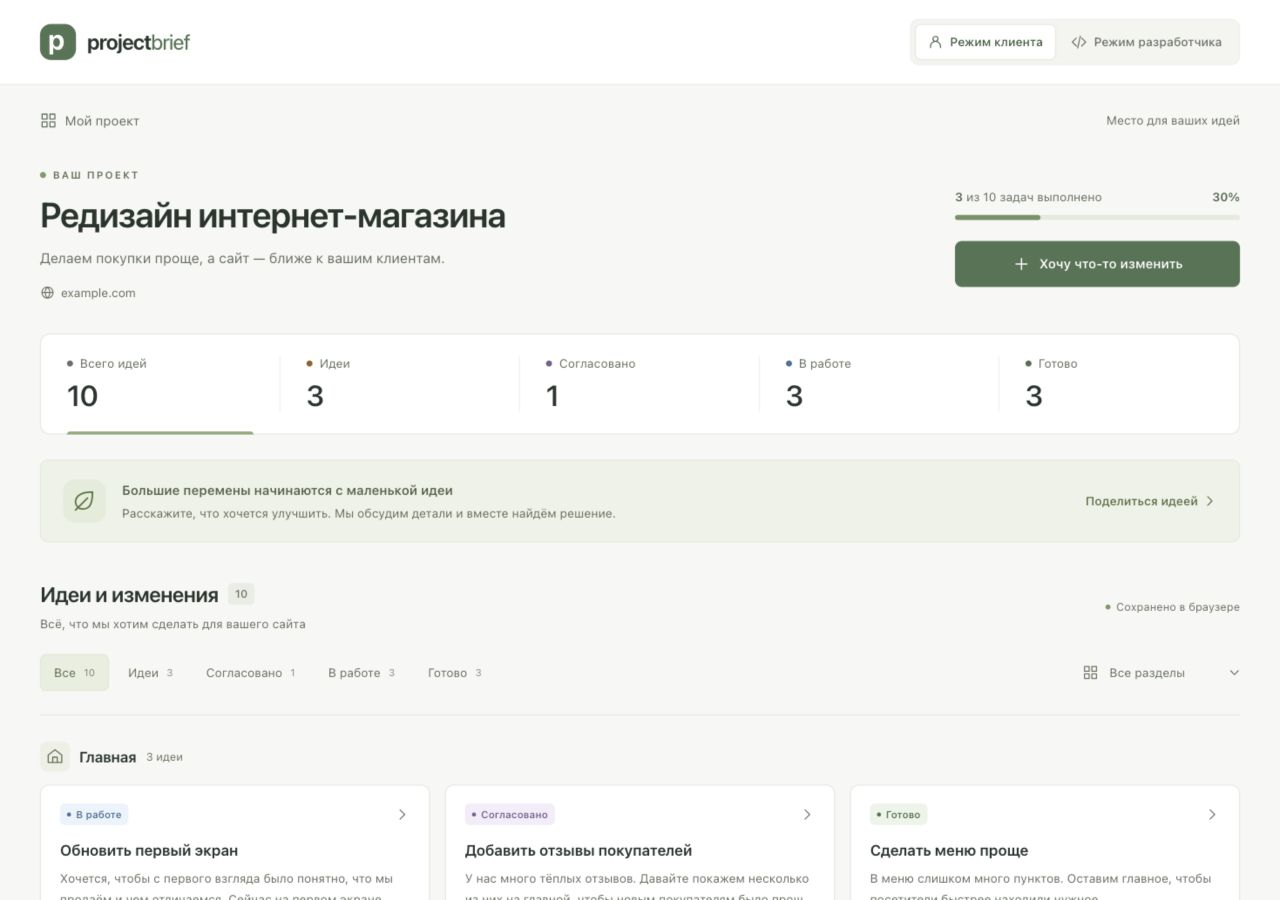
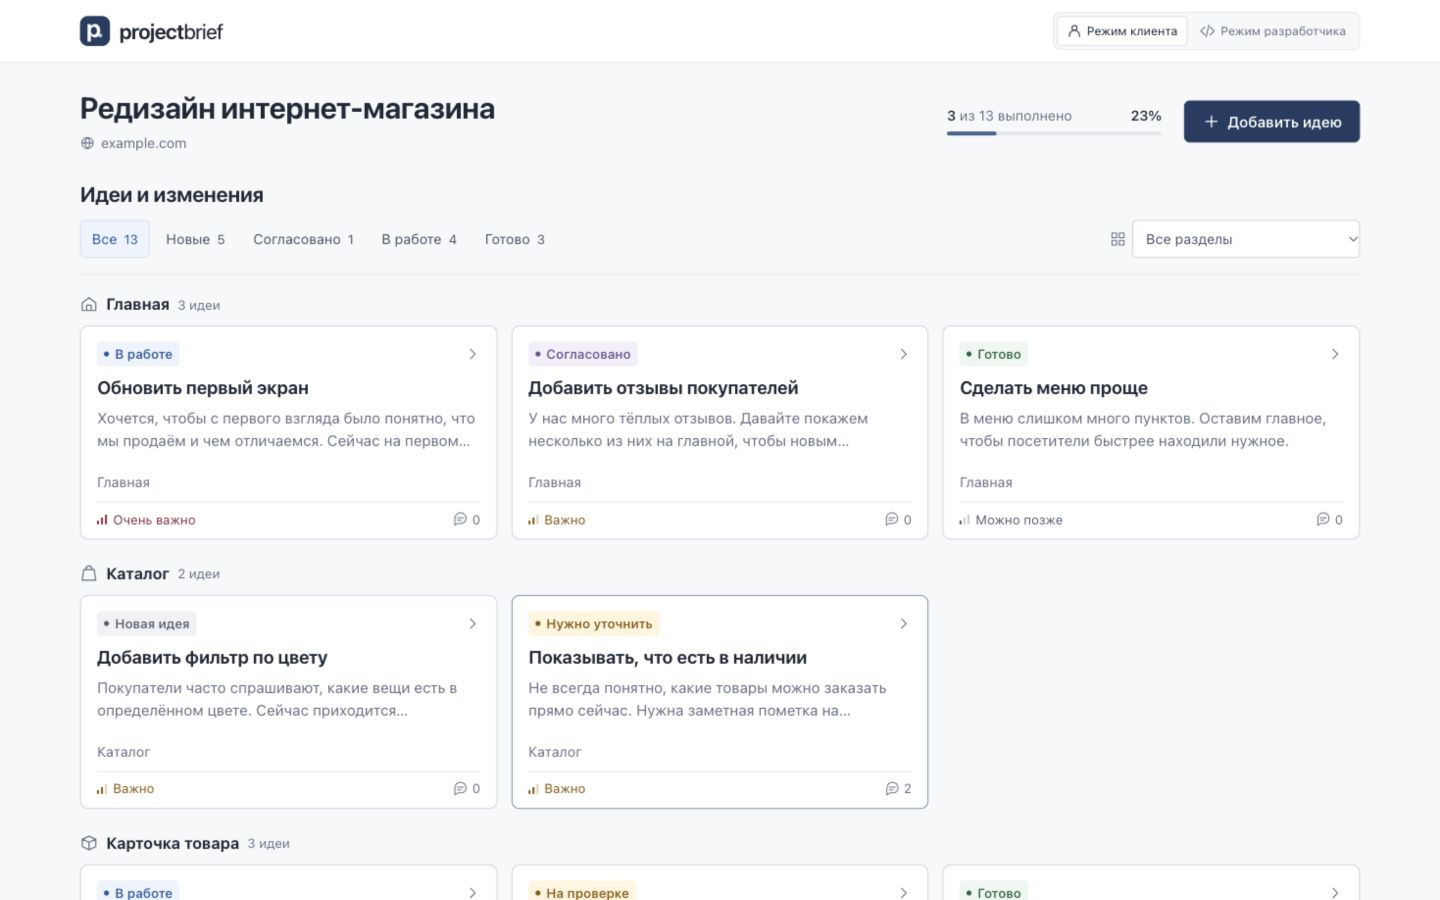
docs: record UX verification and screenshots

diff --git a/docs/ux-cleanup.md b/docs/ux-cleanup.md
@@ -1,0 +1,76 @@
+# Проверка UX/UI cleanup
+
+5 октября 2026 года. Работа продолжена поверх существующей main, без новых зависимостей.
+
+## Интерфейс
+
+Удалены большая статистика, зелёный promo-блок, слоган, повторные пояснения,
+боковая инструкция формы и большая карточка согласования. Логотип, режимы,
+фильтры, progress bar и все действия MVP сохранены.
+
+Нейтральная палитра, body 16 px, labels 15 px, заголовки карточек 18 px,
+описания 15 px (16 px на mobile), максимум две строки. Цвета различают статусы
+и приоритеты. Необязательные поля выделены отдельно, AI остаётся вторичным действием.
+
+## Размеры и визуальная проверка
+
+| Ширина  | Колонки | Горизонтальная прокрутка |
+| ------- | ------- | ------------------------ |
+| 1440 px | 3       | Нет                      |
+| 1199 px | 2       | Нет                      |
+| 700 px  | 2       | Нет                      |
+| 699 px  | 1       | Нет                      |
+| 390 px  | 1       | Нет                      |
+
+На 1440×900 первый ряд из трёх карточек расположен между y=326 и y=540:
+все три карточки целиком видны без прокрутки. Проверены ProjectView,
+TaskFormView и TaskView, оба режима. На mobile 390×844 проверены форма,
+карточка с длинным URL, комментарии и developer panel.
+
+Снимки: [главная desktop](dashboard.jpg), [форма desktop](form-desktop.jpg),
+[идея клиента](task-client.jpg), [идея разработчика](task-developer.jpg),
+[главная mobile с URL](mobile-dashboard.jpg), [форма mobile](mobile-form.jpg),
+[идея mobile](mobile-task.jpg).
+
+Проверены вычисленные цвета обычного текста: описание и место на карточке —
+4,97:1, заголовок — 14,68:1, основная кнопка — 11,19:1,
+активный фильтр — 6,53:1, badges статусов — от 5,52:1,
+переключатель режима — минимум 4,68:1. Эти образцы превышают 4,5:1.
+
+## Поведение и данные
+
+- Прежние десять идей из браузерного localStorage восстановились, включая вложения,
+  комментарии, согласование, оценку, стоимость и заметки. Сброса данных не было.
+- Ключ `project-brief:v1` и версия 1 сохранены. Старые задачи читаются через
+  `location || section`. Новые задачи записывают оба поля для совместимости.
+- Выбор «Карточка товара» клавишами ↓ и Enter не отправляет форму.
+  Tab закрывает подсказки и переводит фокус; существующий раздел также выбирается указателем.
+- Сохранены тестовые идеи с собственным местом «Мобильное меню» и длинным URL
+  с query string и hash. Они корректно группируются и фильтруются.
+  Полный URL совпадает после перезагрузки; CSS ограничивает только отображение.
+- Значение места `all` не конфликтует с пунктом «Все разделы»: фильтр показывает
+  ровно одну соответствующую идею, затем возвращается к общему списку.
+- Пустая форма показывает ошибки трёх обязательных полей и фокусирует первое.
+  Идея сохраняется без ожидаемого результата и вложений.
+- Две вставки одного PNG через Cmd+V добавляют два отдельных превью.
+  Вставка текста в описание продолжает работать. Изображения из буфера проходят
+  прежние проверки формата, размера, количества файлов и сохранение превью.
+- На новой тестовой идее добавлены сообщения клиента и разработчика,
+  согласование, статус «В работе», 2,5 часа, 7500 ₽ и техническая заметка.
+  Все значения восстановились после обновления страницы.
+- В клиентском режиме developer-only поля скрыты. История изначально закрыта,
+  открывается и закрывается с клавиатуры; внутренние события скрыты от клиента.
+- AI-демо открывается на mobile, Escape закрывает окно и возвращает фокус.
+  Заполненная форма сохраняется. API не подключён.
+- Консоль браузера: ошибок и предупреждений нет.
+
+Тестовые идеи оставлены в браузере с префиксом «Проверка UX»; прежние идеи не менялись.
+
+## Автоматическая проверка
+
+`npm test`: 14 тестов, 14 успешных, 0 ошибок. Помимо прежнего жизненного цикла
+проверяются восстановление старой схемы без потери полей, произвольные места,
+полные URL, совместимое обновление section, вставка изображений и ограничения файлов.
+Тесты используют отдельное хранилище в памяти.
+
+`npm run build`: успешно. `npm run format:check`: успешно.

diff --git a/README.md b/README.md
@@ -18,18 +18,20 @@ npm run dev
 ```bash
 npm run build        # сборка в dist/
 npm run preview      # просмотр собранного приложения
-npm test             # тесты store и сохранения данных
+npm test             # тесты store, сохранения и обработки вложений
 npm run format:check # проверка форматирования
 ```
 
 ## Возможности
 
 - Девять демо-идей при первом запуске, все шесть статусов, несколько обсуждений.
-- Главный экран: прогресс, статистика, группировка по страницам сайта, фильтры по статусу и разделу.
-- Простая форма идеи: название, раздел (включая «Другое»), описание, ожидаемый результат, важность и вложения.
+- Главный экран: компактный прогресс, группировка по месту на сайте и фильтры. На desktop от 1200 px — три колонки, от 700 до 1199 px — две, ниже — одна.
+- Простая форма идеи: название, место на сайте и описание. Результат, важность и вложения визуально вторичны.
+- «Где это находится?» — свободное поле с подсказками существующих мест: можно выбрать раздел, написать своё название или вставить полную ссылку. Подсказки доступны мышью и клавишами ↑/↓, Enter, Escape; Tab переходит дальше.
 - JPG, JPEG, PNG, WEBP, PDF, DOC, DOCX, TXT, ZIP; до 10 файлов на идею, до 20 МБ каждый.
 - Для изображений сохраняются уменьшенные превью до 1000 px и 180 КБ. Для остальных файлов сохраняются только название, тип и размер. Оригиналы файлов не сохраняются и не отправляются.
-- Страница идеи: описание, результат, превью, комментарии двух участников, согласование и история.
+- Скриншот можно вставить через Ctrl+V / Cmd+V на странице новой идеи. Он проходит ту же проверку и подготовку превью, что выбранный файл. Вставка обычного текста работает как прежде.
+- Страница идеи: описание, результат, превью и комментарии рядом на desktop. Согласование показывается компактно, история изменений по умолчанию свёрнута.
 - Переключатель режима без авторизации. В режиме разработчика доступны статус, часы, стоимость в рублях и технические заметки.
 - Все изменения и выбранный режим автоматически сохраняются в localStorage. Поля разработчика сохраняются при вводе; последовательный ввод объединяется в одно событие истории.
 - Согласование клиента хранится отдельно от статуса, установленного разработчиком.
@@ -52,7 +54,9 @@ src/
   App.vue                   # оболочка, переключатель режима, ошибки хранилища
   main.js                   # Vue 3, Pinia и Vue Router
 tests/project.test.js       # тесты жизненного цикла проекта
-docs/verification.md        # результаты проверки MVP
+tests/attachments.test.js   # вставка изображений и ограничения файлов
+docs/verification.md        # первоначальная проверка MVP
+docs/ux-cleanup.md          # проверка текущего интерфейса и скриншоты
 ```
 
 Vue 3 Composition API, Vite, Pinia, Vue Router, без UI-фреймворков.
@@ -64,6 +68,9 @@ saveToStorage. Обновление и удаление доступны как 
 
 Ключ: `project-brief:v1`, версия схемы: 1.
 Снимок содержит project, sections, tasks и currentMode. Изменения отслеживаются глубоким watcher.
+Место задачи читается через `task.location || task.section`: прежние задачи не требуют миграции.
+Новые идеи записывают `location` и совместимый `section`; произвольные значения участвуют
+в группировке и подсказках. URL хранится полностью, сокращается только отображение через CSS.
 Перед восстановлением проверяется вся структура. Некорректное сохранение остаётся нетронутым,
 показывается предупреждение, запись блокируется. При переполнении памяти изменения остаются
 в состоянии текущей страницы; интерфейс показывает ошибку и кнопку повторного сохранения.
